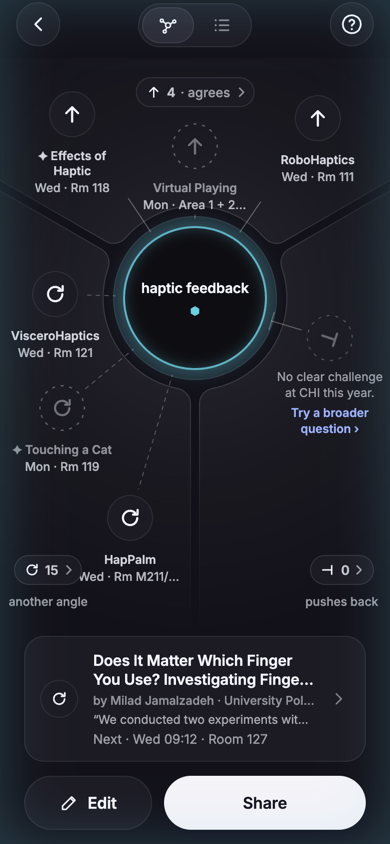
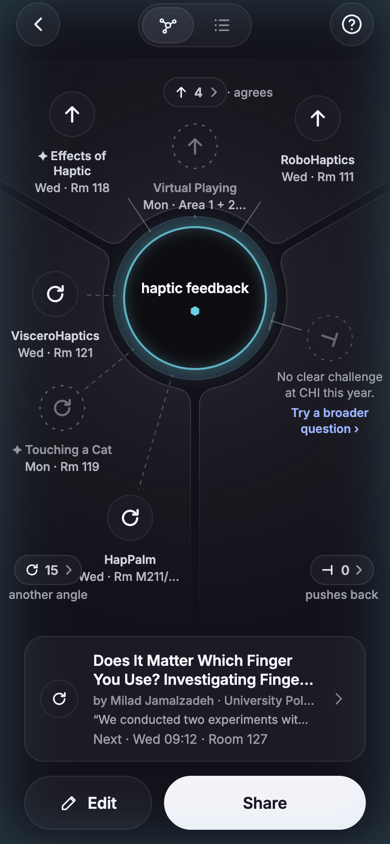
fix(app): the meaning sits beside ↑ and under ↻ ⊣, outside the count buttons (their names stay All N …)
Claude-Session: https://claude.ai/code/session_01HzkcW42MC5Xmhs3xVVjSDu

diff --git a/app/src/screens/arc/ArcView.tsx b/app/src/screens/arc/ArcView.tsx
@@ -279,21 +279,22 @@ export function ArcView({ arc, states, info, scale = 1, onNode, onBundle, edit, 
           const [x, y] = l.regions.find(r => r.angle === a)?.at ?? (edit || own ? BADGE_AT[a] : MORE_AT[a].badge), h = real(Math.max(30 * scale, 30)), font = real(Math.max(12.5, 13 * scale)) /* 12.5: at 0.78 a 12 px digit measures 11.8 */, icon = real(Math.max(12, 16 * scale));
           const body = <>
             <span data-badge={a} className="flex items-center rounded-full border border-white/10 bg-arc-surface font-semibold text-arc-text/78" style={{ height: h, gap: real(5 * Math.max(scale, 0.8)), paddingLeft: real(9 * Math.max(scale, 0.8)), paddingRight: real(11 * Math.max(scale, 0.8)), fontSize: font }}>
-              <img src={ANGLE_ICON[a]} alt="" width={icon} height={icon} /><span key={count} data-count="">{count}</span>{meaning && !edit && !own && !pick && a === 'S' && <span className="font-medium text-arc-text/60"> · {ANGLE_MEANING[a]}</span>}
+              <img src={ANGLE_ICON[a]} alt="" width={icon} height={icon} /><span key={count} data-count="">{count}</span>
               {/* more talks wait there: a chevron inside the count (it stood outside, tilted, and read as a bracket) */}
               {/* user 11/28 (feedback 8): every count looks pressable, "↻ 3 ›", the way to all of an angle */}
               {/* user 11/28 「배지에 뜻을 붙여서 "⊣ 1 · pushes back" (이 Arc를 처음 몇 번 볼 때), 익숙해지면 "⊣ 1 ›"」 */}
               {onBundle && !still && !own && !pick && !pending && <svg aria-hidden="true" data-more={more1 ? a : undefined} width={real(6)} height={real(10)} viewBox="0 0 6 10" style={{ marginLeft: real(1) }}><path d="M1 1l4 4-4 4" stroke="#f4f6ff" strokeOpacity={0.6} strokeWidth={1.5} strokeLinecap="round" strokeLinejoin="round" fill="none" /></svg>}
             </span>
-            {/* user 11/28 「배지에 뜻을 붙여서 "⊣ 1 · pushes back" (이 Arc를 처음 몇 번 볼 때)」: under the count, so the
-                corner counts stay on screen */}
-            {meaning && !edit && !own && !pick && a !== 'S' && <>{' '}<span className="absolute top-full left-1/2 mt-0.5 -translate-x-1/2 font-medium whitespace-nowrap text-arc-text/60" style={{ fontSize: real(12) }}>{ANGLE_MEANING[a]}</span></>}
           </>;
           const box = { left: x, top: y, transform: 'translate(-50%, -50%)' };
+          // user 11/28 「배지에 뜻을 붙여서 "⊣ 1 · pushes back" (이 Arc를 처음 몇 번 볼 때), 익숙해지면 "⊣ 1 ›"」: beside ↑ (talks sit
+          // under it), under the corner counts (beside them would leave the screen); outside the button, so its name stays "All 2 Supports"
+          const said = meaning && !edit && !own && !pick && !pending ? <span aria-hidden="true" className="pointer-events-none absolute font-medium whitespace-nowrap text-arc-text/60"
+            style={{ fontSize: real(12), ...(a === 'S' ? { left: x + real(32), top: y, transform: 'translateY(-50%)' } : { left: x, top: y + real(17), transform: 'translateX(-50%)' }) }}>{a === 'S' ? '· ' : ''}{ANGLE_MEANING[a]}</span> : null;
           // every region's count moves the map toward it (prototype 12 "Angle · " → 24b), the chevron only when talks wait there
           return onBundle && !still && !own && !pick && !pending /* 15 too (11/27): a count opens its angle wide, to edit all of it */
-            ? <span key={a}><button type="button" onClick={() => onBundle?.(a)} inert={!!hold?.held || undefined} aria-label={meaning && !edit ? `${count}${a === 'S' ? ' ·' : ''} ${ANGLE_MEANING[a]}, all ${count} ${ANGLE_NAME[a]}` : `All ${count} ${ANGLE_NAME[a]}`}
-                className="absolute z-[2] flex items-center justify-center" style={{ ...box, minWidth: real(44), minHeight: real(44) }}>{body}</button></span>
+            ? <span key={a}><button type="button" onClick={() => onBundle?.(a)} inert={!!hold?.held || undefined} aria-label={`All ${count} ${ANGLE_NAME[a]}`} aria-description={said ? ANGLE_MEANING[a] : undefined}
+                className="absolute z-[2] flex items-center justify-center" style={{ ...box, minWidth: real(44), minHeight: real(44) }}>{body}</button>{said}</span>
             : <span key={a} aria-hidden="true" data-a11y-decor="region-count" className="pointer-events-none absolute flex" style={box}>{body}</span>; /* prototype 12b: counts stay at full while a stop is held */
         })}
 
